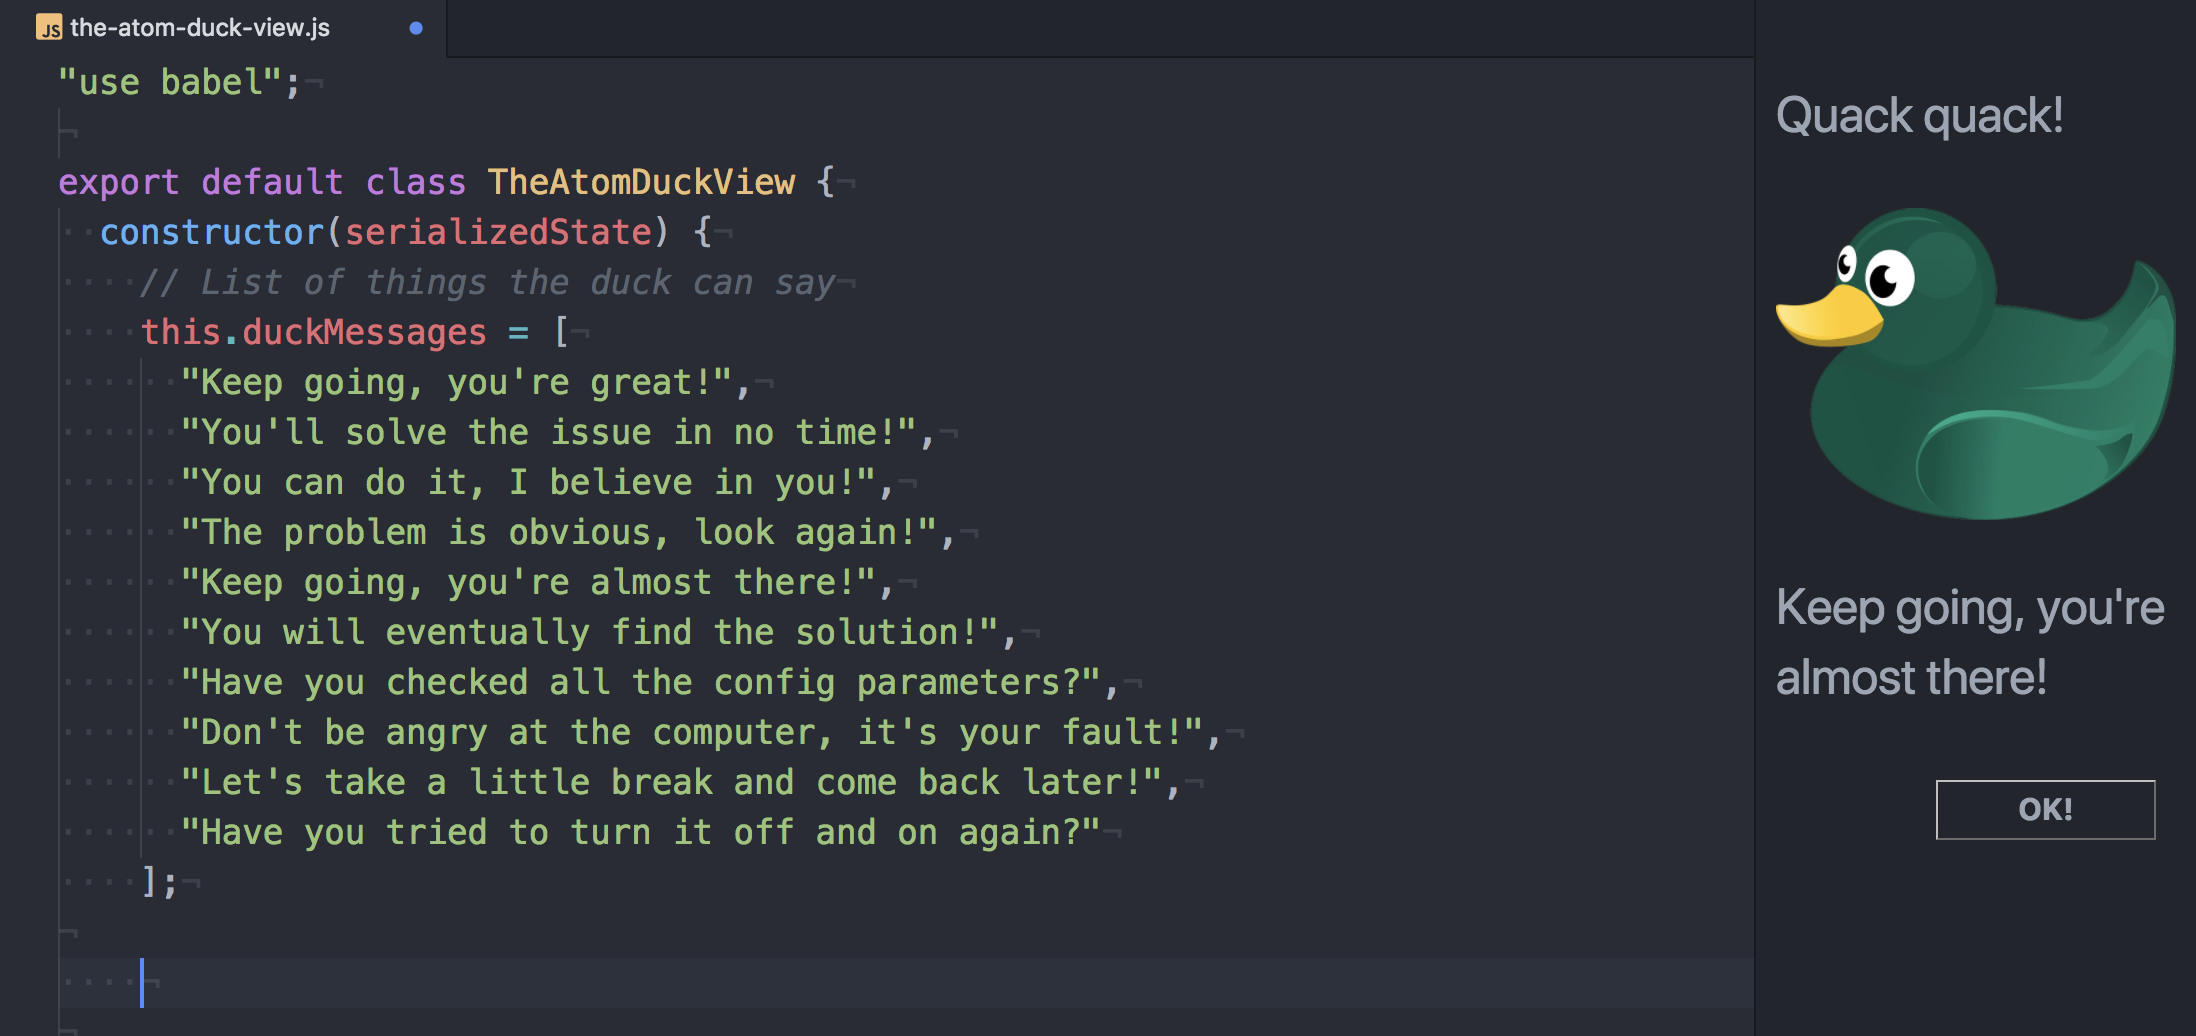
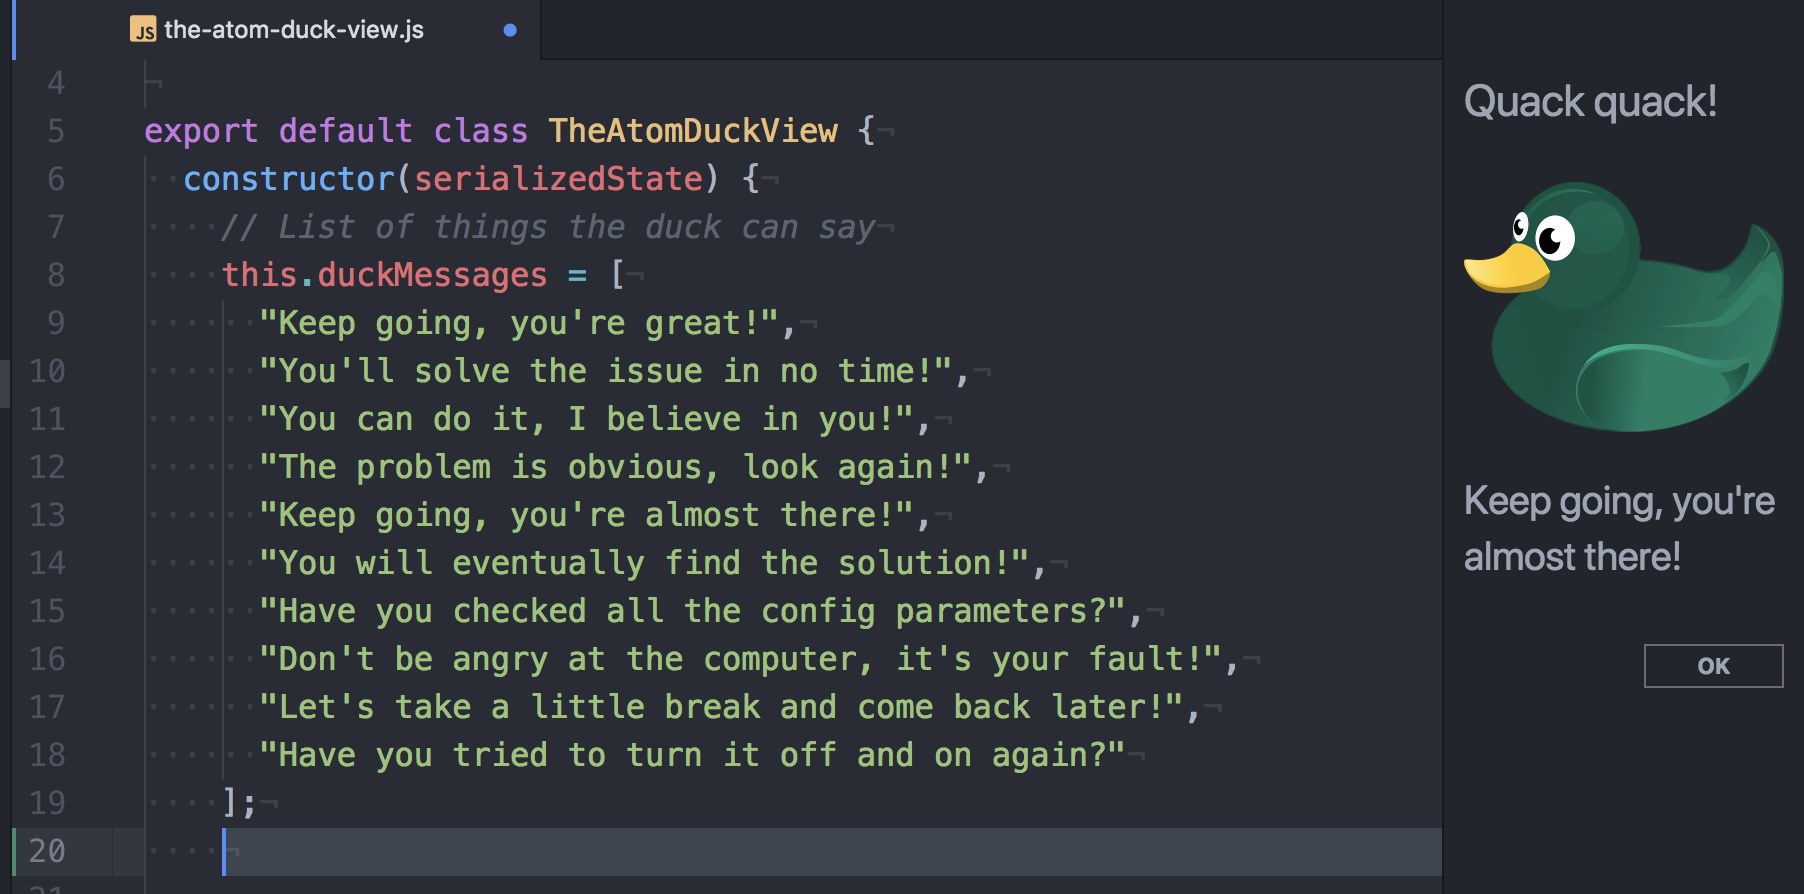
Smaller duck + removing event listeners

diff --git a/lib/the-atom-duck-view.js b/lib/the-atom-duck-view.js
@@ -2,22 +2,33 @@
 
 const { duck: duckImageBase64 } = require("./base64-images");
 
+// List of things the duck can say
+const DUCK_MESSAGES = [
+  "Keep going, you're great!",
+  "You'll solve the issue in no time!",
+  "You can do it, I believe in you!",
+  "The problem is obvious, look again!",
+  "Keep going, you're almost there!",
+  "You will eventually find the solution!",
+  "Have you checked all the config parameters?",
+  "Don't be angry at the computer, it's your fault!",
+  "Let's take a little break and come back later!",
+  "Have you tried to turn it off and on again?"
+];
+
+let randNum = null;
+
+const getDuckMessage = () => {
+  const prevRandNum = randNum || -1;
+  randNum = parseInt(Math.random() * DUCK_MESSAGES.length);
+  if (randNum === prevRandNum) {
+    randNum = (randNum + 1) % DUCK_MESSAGES.length;
+  }
+  return DUCK_MESSAGES[randNum];
+};
+
 export default class TheAtomDuckView {
   constructor(serializedState) {
-    // List of things the duck can say
-    this.duckMessages = [
-      "Keep going, you're great!",
-      "You'll solve the issue in no time!",
-      "You can do it, I believe in you!",
-      "The problem is obvious, look again!",
-      "Keep going, you're almost there!",
-      "You will eventually find the solution!",
-      "Have you checked all the config parameters?",
-      "Don't be angry at the computer, it's your fault!",
-      "Let's take a little break and come back later!",
-      "Have you tried to turn it off and on again?"
-    ];
-
     // Create root element
     this.element = document.createElement("div");
     this.element.classList.add("the-atom-duck");
@@ -25,33 +36,30 @@ export default class TheAtomDuckView {
     // Create top message element
     const topMessage = document.createElement("div");
     topMessage.id = "duck-message-top";
-    topMessage.innerHTML = "Quack quack!";
+    topMessage.textContent = "Quack quack!";
     this.element.appendChild(topMessage);
 
     // Create duck image within its rapper
-    const imageWrapper = document.createElement("div");
-    imageWrapper.addEventListener("click", () => this.updateMessage());
+    this.imageWrapper = document.createElement("div");
+    this.imageWrapper.addEventListener("click", this.updateMessage);
     const image = document.createElement("img");
     image.id = "duck-image";
     image.src = duckImageBase64;
-    imageWrapper.appendChild(image);
-    this.element.appendChild(imageWrapper);
+    this.imageWrapper.appendChild(image);
+    this.element.appendChild(this.imageWrapper);
 
     // Create bottom message element
     const bottomMessage = document.createElement("div");
     bottomMessage.id = "duck-message-bottom";
-    bottomMessage.innerHTML = this.getDuckMessage();
+    bottomMessage.textContent = getDuckMessage();
     this.element.appendChild(bottomMessage);
 
     // Create hide button element
-    const hideButton = document.createElement("button");
-    hideButton.id = "hide-button";
-    hideButton.addEventListener("click", () => {
-      document.getElementById("duck-message-bottom").style.display = "none";
-      document.getElementById("hide-button").style.display = "none";
-    });
-    hideButton.textContent = "OK!";
-    this.element.appendChild(hideButton);
+    this.hideButton = document.createElement("button");
+    this.hideButton.id = "hide-button";
+    this.hideButton.addEventListener("click", this.hideBottomMessage);
+    this.hideButton.textContent = "OK";
+    this.element.appendChild(this.hideButton);
   }
 
   // Returns an object that can be retrieved when package is activated
@@ -59,6 +67,8 @@ export default class TheAtomDuckView {
 
   // Tear down any state and detach
   destroy() {
+    this.imageWrapper.removeEventListener("click", this.updateMessage);
+    this.hideButton.removeEventListener("click", this.hideBottomMessage);
     this.element.remove();
   }
 
@@ -66,20 +76,17 @@ export default class TheAtomDuckView {
     return this.element;
   }
 
-  getDuckMessage() {
-    const prevRandNum = this.randNum || -1;
-    this.randNum = parseInt(Math.random() * this.duckMessages.length);
-    if (this.randNum === prevRandNum) {
-      this.randNum = (this.randNum + 1) % this.duckMessages.length;
-    }
-    return this.duckMessages[this.randNum];
+  updateMessage() {
+    // 'this' keyword should NOT be used here
+    const duckMessage = document.getElementById("duck-message-bottom");
+    duckMessage.style.display = "block";
+    duckMessage.textContent = getDuckMessage();
+    document.getElementById("hide-button").style.display = "inline";
   }
 
-  updateMessage() {
-    document.getElementById("duck-message-bottom").style.display = "block";
-    document.getElementById(
-      "duck-message-bottom"
-    ).innerHTML = this.getDuckMessage();
-    document.getElementById("hide-button").style.display = "inline";
+  hideBottomMessage() {
+    // 'this' keyword should NOT be used here
+    document.getElementById("duck-message-bottom").style.display = "none";
+    document.getElementById("hide-button").style.display = "none";
   }
 }

diff --git a/styles/the-atom-duck.less b/styles/the-atom-duck.less
@@ -5,7 +5,7 @@
 @import "ui-variables";
 
 .the-atom-duck {
-  width: 220px;
+  width: 180px;
   padding: 10px;
 }
 
@@ -14,28 +14,28 @@
 }
 
 #duck-message-top {
-  font-size: 25px;
-  padding-top: 30px;
-  padding-bottom: 30px;
+  font-size: 22px;
+  padding-top: 25px;
+  padding-bottom: 25px;
 }
 
 #duck-message-bottom {
-  font-size: 25px;
-  padding-top: 25px;
-  padding-bottom: 35px;
+  font-size: 20px;
+  padding-top: 20px;
+  padding-bottom: 30px;
 }
 
 #duck-image {
-  width: 200px;
+  width: 160px;
   cursor: pointer;
 }
 
 button {
-  width: 110px;
-  height: 30px;
-  margin-left: 80px;
+  width: 70px;
+  margin-left: 90px;
   font-weight: bold;
-  font-size: 15px;
+  font-size: 11px;
+  border-style: groove;
   border-width: 1px;
   background: none;
 }
